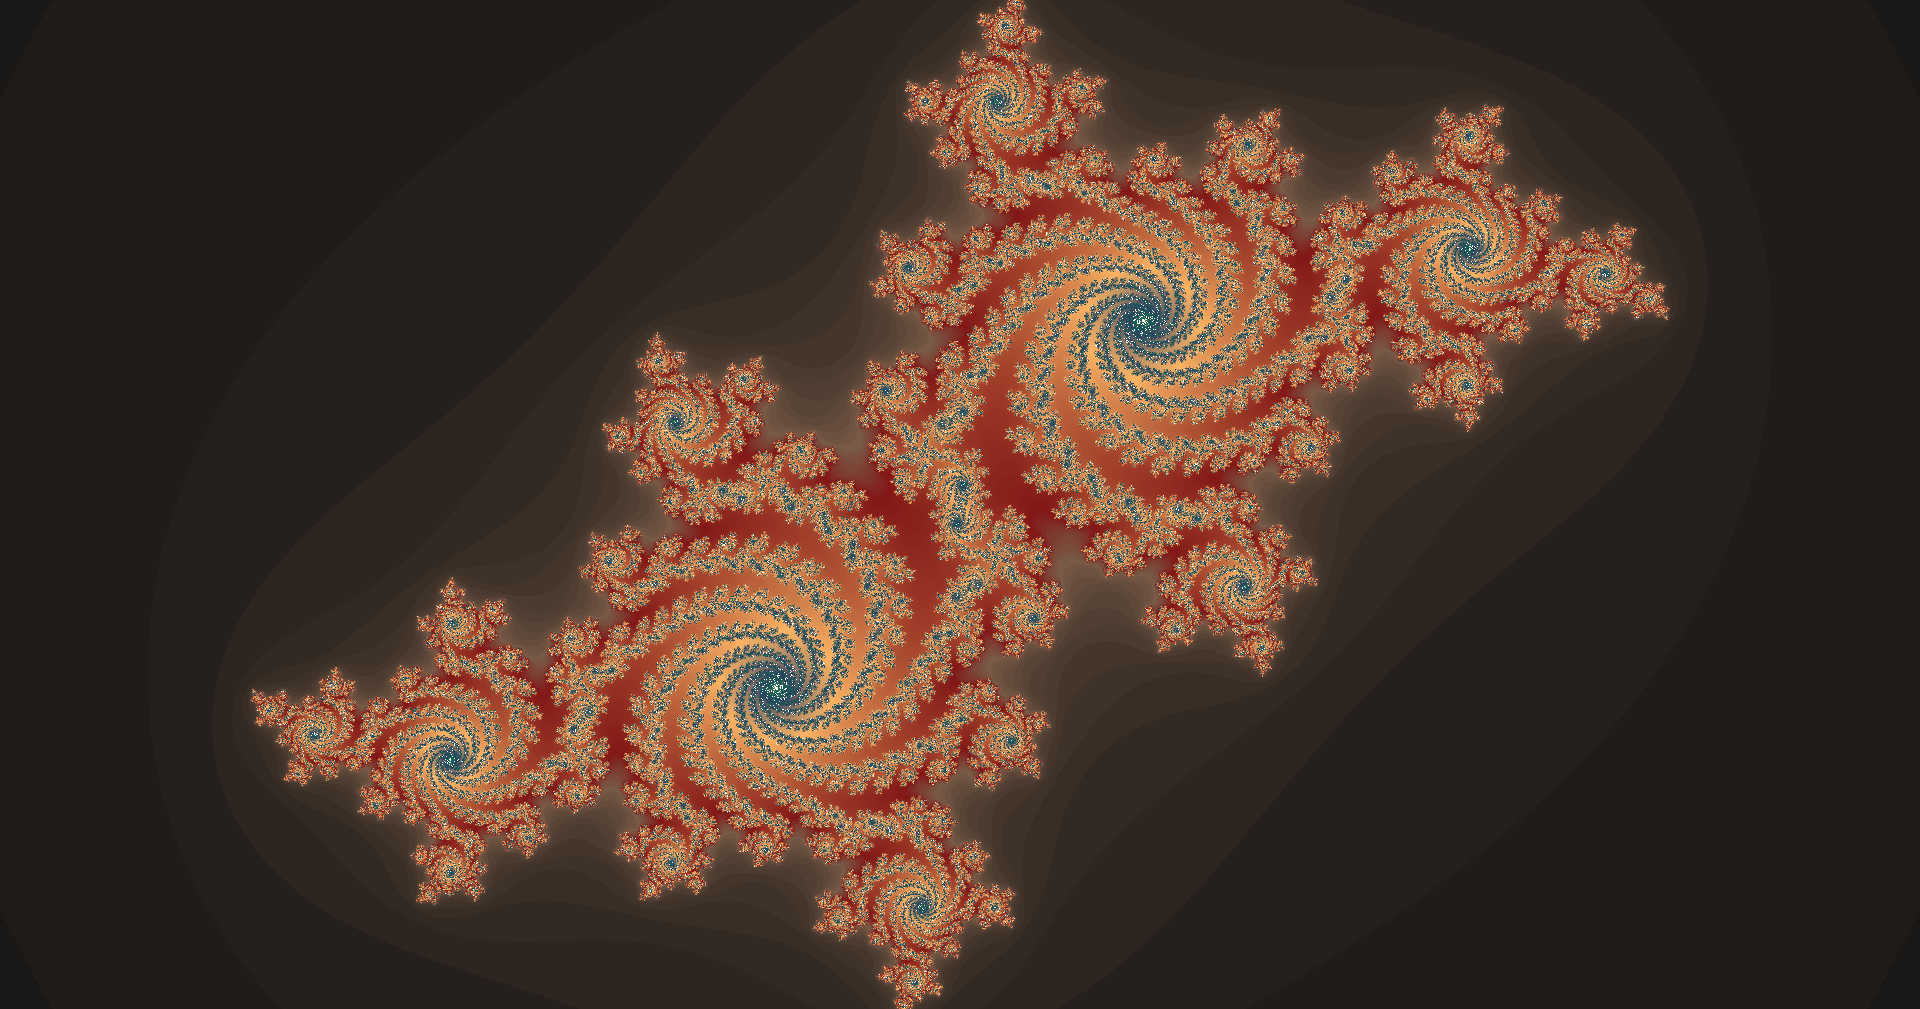
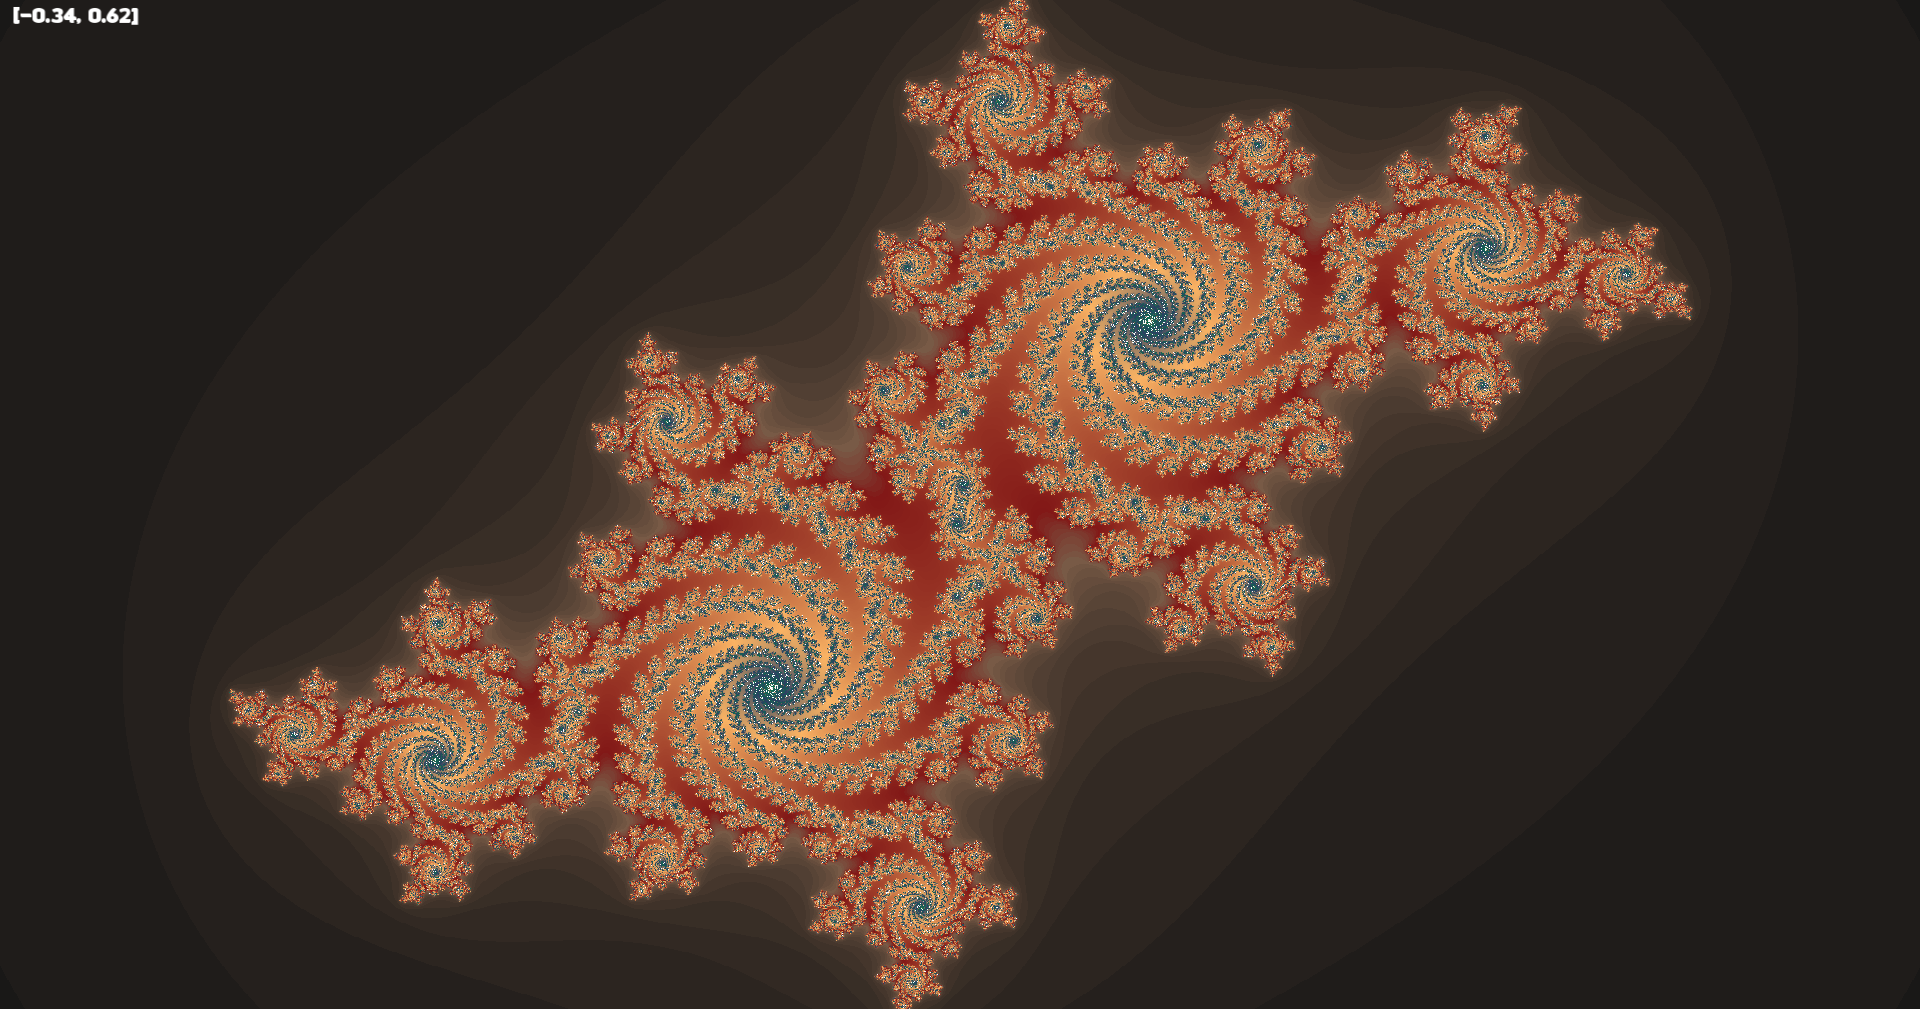
anti-aliasing

Changed region(s): [[0.0938, 0.0, 0.9062, 1.0], [0.0, 0.0, 0.0938, 0.0307]]

diff --git a/src/Render.cpp b/src/Render.cpp
@@ -6,17 +6,36 @@
 #include <string>
 #include <iostream>
 #include <array>
+#include <sstream>
+#include <iomanip>
+#include <charconv>
 #include "Render.hpp"
 #include "utils/JuliaSet.hpp"
 #include "SFML/Graphics/VertexArray.hpp"
 #include "utils/Gradients.hpp"
 #include "SFML/Window/Event.hpp"
 #include "SFML/Graphics/Texture.hpp"
+#include "SFML/Graphics/Font.hpp"
+#include "SFML/Graphics/Text.hpp"
 
 void Render::renderWindow(sf::RenderWindow *window) {
     window->setActive(true);
     sf::VertexArray image = generateVertexArray(window->getSize());
     std::cout << "finished" << std::endl;
+    sf::Font font;
+    if (!font.loadFromFile("../../src/resources/Insanibc.ttf")) {
+        std::cout << "No Font!" << std::endl;
+    }
+    sf::Text label;
+    label.setFont(font);
+    std::string x = std::to_string(curr_julia.x).substr(0, std::to_string(curr_julia.x).find('.') + 3);
+    std::string y = std::to_string(curr_julia.y).substr(0, std::to_string(curr_julia.y).find('.') + 3);
+
+    std::string text = "  [" + x + ", " + y + "]  ";
+    label.setString(text);
+    label.setCharacterSize(24);
+    label.setFillColor(sf::Color::White);
+    label.setPosition(0.5, 0.5);
 
     while (window->isOpen()) {
 
@@ -34,6 +53,7 @@ void Render::renderWindow(sf::RenderWindow *window) {
         //draw
         window->clear();
         window->draw(image);
+        window->draw(label);
         // render
         window->display();
 
@@ -51,14 +71,15 @@ sf::VertexArray Render::generateVertexArray(sf::Vector2u window_size) {
 
     anti_aliasing_offsets[0] = {};
 
+    auto js = JuliaSet(curr_julia, MAX_ITERATIONS);
 
-    auto js = JuliaSet({-0.34f, 0.62f}, MAX_ITERATIONS);
+
     sf::VertexArray va(sf::Points, (window_size.x * window_size.y));
     int idx = 0;
     for (int x{0}; x < window_size.x; ++x) {
         for (int y{0}; y < window_size.y; ++y) {
 
-            const int samples = 16;
+            const int samples = 1;
             sf::Vertex vertex;
             sf::Vector3f colorSamples;
             for (int i{samples}; i--;) {
@@ -66,7 +87,7 @@ sf::VertexArray Render::generateVertexArray(sf::Vector2u window_size) {
                 float scale = static_cast<float>(window_size.y) / 2.0f;
                 sf::Vector2f rand = anti_aliasing_offsets[i];
                 sf::Vector2f curr_coordinate = {(static_cast<float>(x) - (static_cast<float>(window_size.x) / 2.0f)) + rand.x, (static_cast<float>(y) - (static_cast<float>(window_size.y) / 2.0f)) + rand.y};
-                const float julia_iters = js.smooth_iterate((curr_coordinate / scale));
+                const float julia_iters = js.iterate_coordinate((curr_coordinate / scale));
                 const float iter_ratio = (julia_iters / static_cast<float>(MAX_ITERATIONS));
                 vertex.position = {static_cast<float>(x), static_cast<float>(y)};
                 sf::Vector3f c = Gradients::applyGradient(iter_ratio, Gradient::DARK_MULTICOLOR);

diff --git a/src/Render.hpp b/src/Render.hpp
@@ -15,6 +15,7 @@ class Render {
 public:
     Render() {
         mt = std::mt19937(1);
+        curr_julia = {-0.34f, 0.62f};
     }
 
     std::thread startRenderThread(sf::RenderWindow &window);
@@ -22,6 +23,8 @@ public:
     void captureWindow();
 
 private:
+
+    sf::Vector2f curr_julia;
 
     void renderWindow(sf::RenderWindow *window);
 
